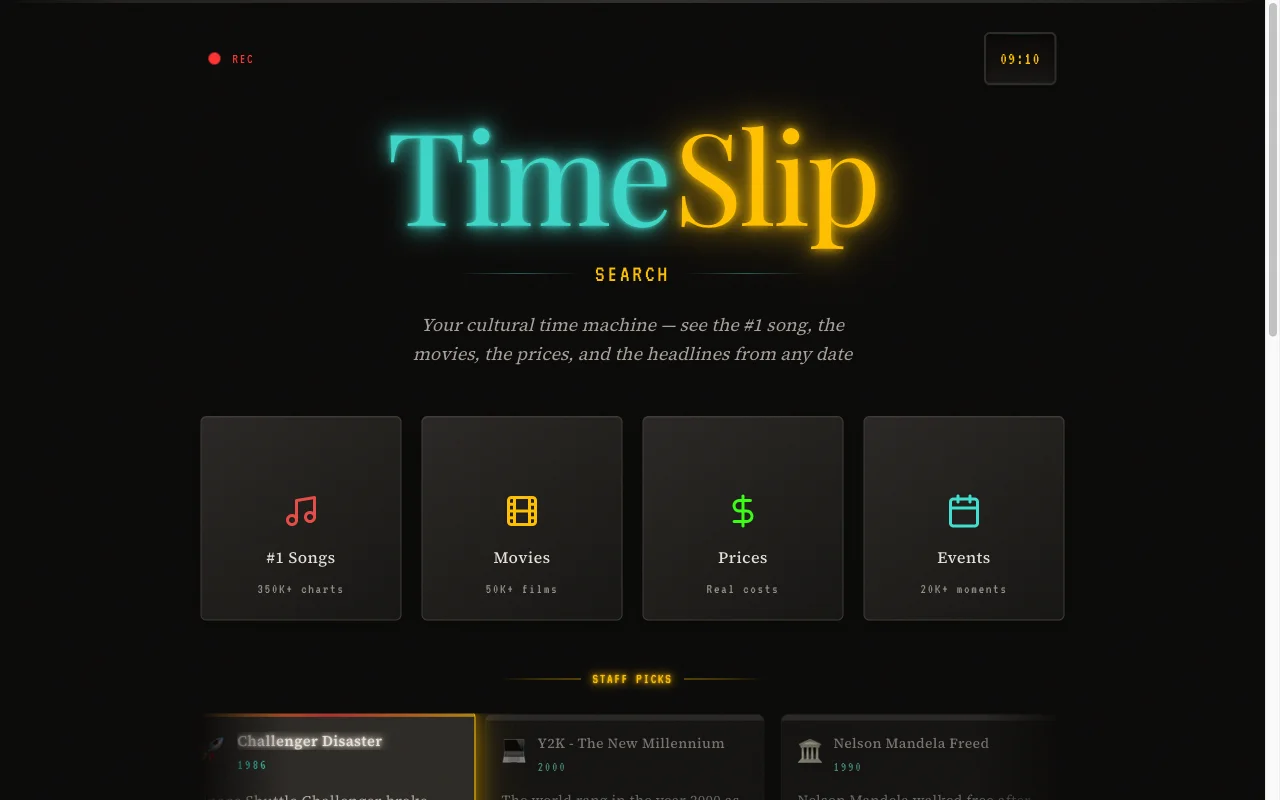
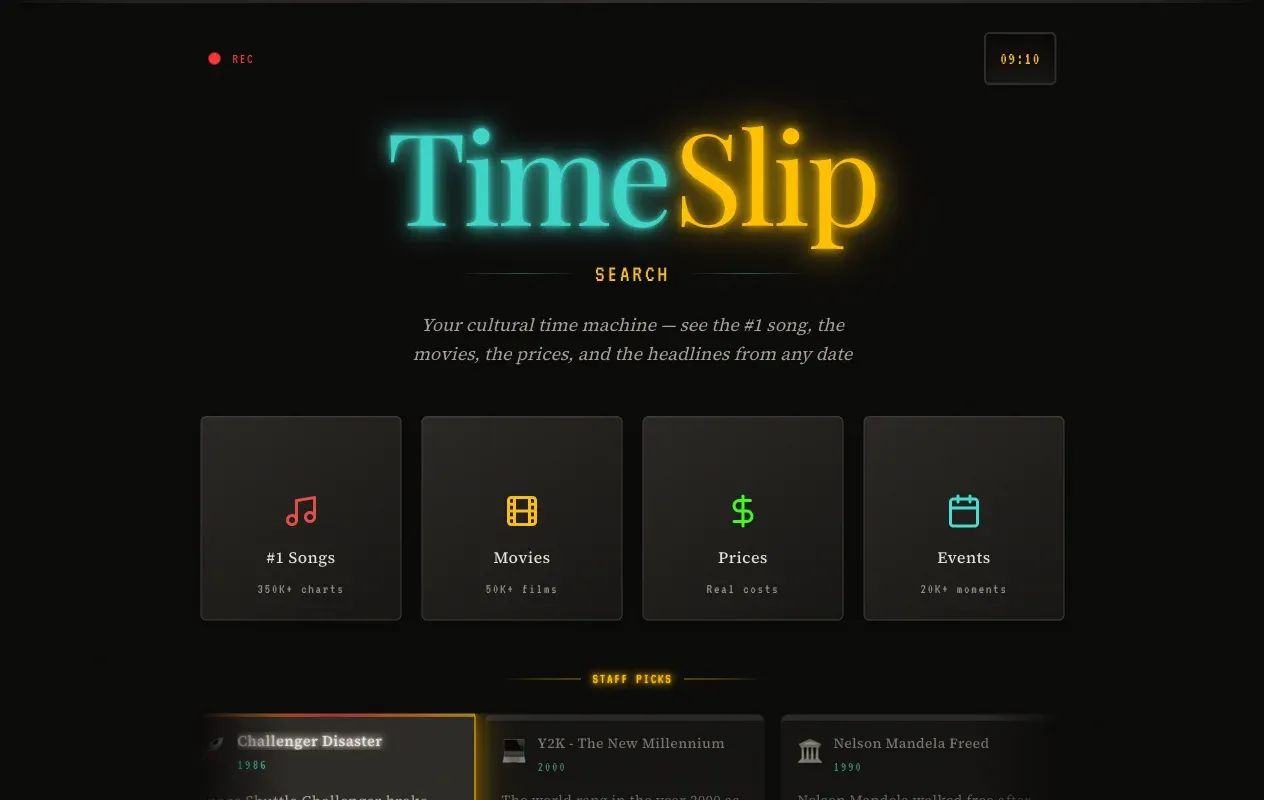
fix(work): crop the TimeSlip capture artifact and add a HireReady screenshot
The TimeSlip image carried a 16px white strip down its right edge from a
capture overlap. HireReady is public and was one of two flagship cards
with no screenshot; this one is a clean capture with the cookie banner
dismissed, with alt text written from the image.

diff --git a/src/lib/projectScreenshots.ts b/src/lib/projectScreenshots.ts
@@ -21,6 +21,7 @@ export const PROJECT_SCREENSHOTS: Record<string, string> = {
   'mcp-server-studio': '/screenshots/mcp-server-studio.webp',
   // Full-Stack
   'ucp-guard': '/screenshots/ucp-guard.webp',
+  'hire-ready': '/screenshots/hire-ready.webp',
   'portfolio-pro': '/screenshots/portfolio-pro.webp',
   kindred: '/screenshots/kindred.webp',
   reprise: '/screenshots/reprise.webp',
@@ -52,6 +53,8 @@ export const PROJECT_SCREENSHOT_ALT: Record<string, string> = {
     'AutomaDocs home page on a dark background: the heading "Code documentation your team can actually trust." beside a product preview showing a documentation map, an Ask the repo answer with cited file paths, and freshness and coverage gauges.',
   'mcp-server-studio':
     'MCP Studio empty builder: a dark canvas with a "Start Building" prompt on the left and an empty Server Manifest panel with Structure, Test and Code tabs on the right.',
+  'hire-ready':
+    'HireReady home page on a dark background: the heading "Interview prep that actually sticks.", a Take a free voice mock button, and a sample feedback card scoring a behavioral answer 3.2 out of 4 with Situation, Task, Action and Result bars.',
   'ucp-guard':
     'UCP Guard home page: the heading "Keep UCP stores reliable for every AI shopping request" beside a live monitor card with store counts, a P95 latency figure and a row of uptime check bars, plus a cookie banner.',
   'portfolio-pro':
